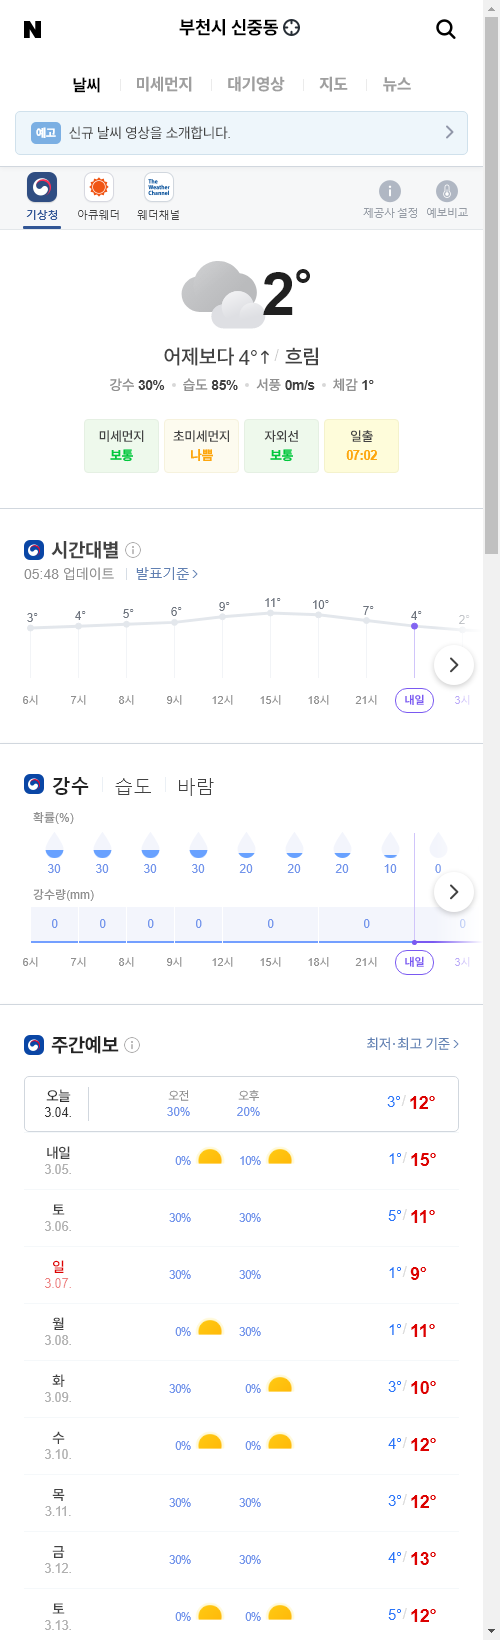
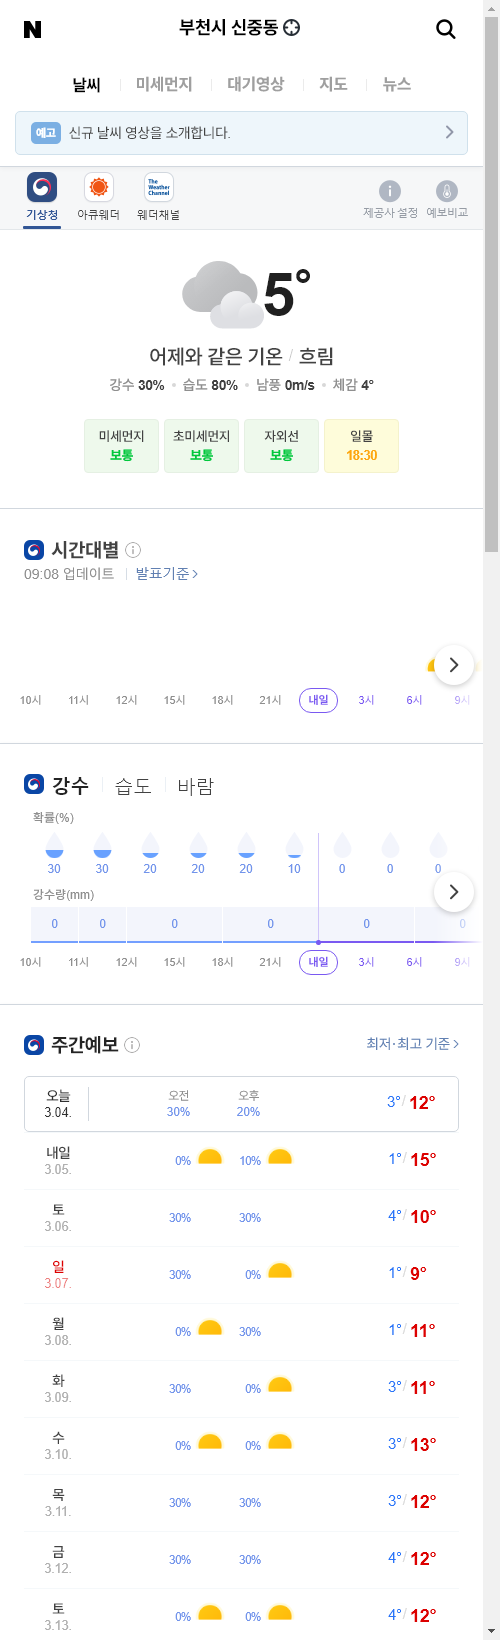
update result

diff --git a/README.md b/README.md
@@ -1,5 +1,5 @@
-##  2021-03-04 05:54:43   목요일 
-##### 날씨   -   어제보다 4° 높아요흐림  
+##  2021-03-04 09:16:40   목요일 
+##### 날씨   -   어제와 같은 기온흐림  
 <center><img src="../img/naver_weather_week.png"></center>
 ----
 ----
@@ -13,9 +13,9 @@
 ##### 세계
 <table border="1" bordercolor="blue" align = "center" >
 <tr align = "right" > <td>Item</td><td>Point</td><td>Diff</td><td>Rate</td><td>Buy</td><td>Sell</td><td>...</td>  </tr>
-<tr align = "right" > <td>DOW</td><td>31,371.75</td><td>-19.77</td><td><font size="3" color="blue" >-0.06%</font></td><td><font size="3" color="black">0</font></td><td><font size="3" color="black">0</font></td><td>0</td>  </tr>
-<tr align = "right" > <td>NASDAQ</td><td>13,037.03</td><td>-321.76</td><td><font size="3" color="blue" >-2.41%</font></td><td><font size="3" color="black">0</font></td><td><font size="3" color="black">0</font></td><td>0</td>  </tr>
-<tr align = "right" > <td>S&P</td><td>3,834.94</td><td>-35.35</td><td><font size="3" color="blue" >-0.91%</font></td><td><font size="3" color="black">0</font></td><td><font size="3" color="black">0</font></td><td>0</td>  </tr>
+<tr align = "right" > <td>DOW</td><td>31,270.09</td><td>-121.43</td><td><font size="3" color="blue" >-0.39%</font></td><td><font size="3" color="black">0</font></td><td><font size="3" color="black">0</font></td><td>0</td>  </tr>
+<tr align = "right" > <td>NASDAQ</td><td>12,997.75</td><td>-361.04</td><td><font size="3" color="blue" >-2.7%</font></td><td><font size="3" color="black">0</font></td><td><font size="3" color="black">0</font></td><td>0</td>  </tr>
+<tr align = "right" > <td>S&P</td><td>3,819.72</td><td>-50.57</td><td><font size="3" color="blue" >-1.31%</font></td><td><font size="3" color="black">0</font></td><td><font size="3" color="black">0</font></td><td>0</td>  </tr>
 <tr align = "right" > <td>SHANHAI</td><td>3,576.91</td><td>68.31</td><td><font size="3" color="red" >1.95%</font></td><td><font size="3" color="black">0</font></td><td><font size="3" color="black">0</font></td><td>0</td>  </tr>
 <tr align = "right" > <td>INDIA</td><td>51,444.65</td><td>114.0</td><td><font size="3" color="red" >2.28%</font></td><td><font size="3" color="black">0</font></td><td><font size="3" color="black">0</font></td><td>0</td>  </tr>
 </table>
@@ -23,34 +23,34 @@
 ##### 시장
 <table border="1" bordercolor="blue" align = "center" >
 <tr align = "right" > <td>Item</td><td>Price</td><td>Diff</td><td>Rate</td><td>Buy</td><td>Sell</td><td>...</td>  </tr>
-<tr align = "right" > <td>USD</td><td>1,122.0</td><td>-2.0</td><td><font size="3" color="blue">-0.18%</font></td><td><font size="3" color="black">1,110</font></td><td><font size="3" color="black">0</font></td><td>0</td>  </tr>
-<tr align = "right" > <td>WTI</td><td>59.75</td><td>-0.89</td><td><font size="3" color="blue">-1.46%</font></td><td><font size="3" color="black">29.0</font></td><td><font size="3" color="black">0</font></td><td>0</td>  </tr>
-<tr align = "right" > <td>GOLD</td><td>1,733.0</td><td>10.6</td><td><font size="3" color="red">0.61%</font></td><td><font size="3" color="black">0</font></td><td><font size="3" color="black">0</font></td><td>0</td>  </tr>
+<tr align = "right" > <td>USD</td><td>1,127.0</td><td>4.5</td><td><font size="3" color="red">0.4%</font></td><td><font size="3" color="black">1,110</font></td><td><font size="3" color="black">0</font></td><td>0</td>  </tr>
+<tr align = "right" > <td>WTI</td><td>61.28</td><td>1.53</td><td><font size="3" color="red">2.56%</font></td><td><font size="3" color="black">29.0</font></td><td><font size="3" color="black">0</font></td><td>0</td>  </tr>
+<tr align = "right" > <td>GOLD</td><td>1,715.0</td><td>-17.8</td><td><font size="3" color="blue">-1.02%</font></td><td><font size="3" color="black">0</font></td><td><font size="3" color="black">0</font></td><td>0</td>  </tr>
 </table>
 ----
 ##### 주가
 <table border="1" bordercolor="blue" align = "center" >
 <tr align = "right" > <td>Item</td><td>Price</td><td>Diff</td><td>Rate</td><td>Purchased</td><td>Sell</td><td>Buy</td>  </tr>
-<tr align = "right" > <td>한국 전력</td><td>23,600</td><td>700</td><td><font size="3" color="red">3.06%</font></td><td>25,720</td><td><font size="3" color="black">27,700</font></td><td><font size="3" color="black">20,700</font></td>  </tr>
-<tr align = "right" > <td>삼성엔지니어.</td><td>12,950</td><td>150</td><td><font size="3" color="red">1.17%</font></td><td>18,935</td><td><font size="3" color="black">20,000</font></td><td><font size="3" color="black">8,000</font></td>  </tr>
-<tr align = "right" > <td>CJ CGV</td><td>27,800</td><td>500</td><td><font size="3" color="red">1.83%</font></td><td>34,895</td><td><font size="3" color="black">36,000</font></td><td><font size="3" color="black">0</font></td>  </tr>
-<tr align = "right" > <td>아모레퍼시픽</td><td>240,000</td><td>4,500</td><td><font size="3" color="red">1.91%</font></td><td>235,350</td><td><font size="3" color="black">240,000</font></td><td><font size="3" color="black">130,000</font></td>  </tr>
-<tr align = "right" > <td>한화</td><td>30,150</td><td>600</td><td><font size="3" color="red">2.03%</font></td><td>25,550</td><td><font size="3" color="black">26,250</font></td><td><font size="3" color="black">26,250</font></td>  </tr>
-<tr align = "right" > <td>NAVER</td><td>399,500</td><td>22,000</td><td><font size="3" color="red">5.83%</font></td><td>147,200</td><td><font size="3" color="black">386,000</font></td><td><font size="3" color="black">286,000</font></td>  </tr>
-<tr align = "right" > <td>LG 화학우</td><td>407,500</td><td>-2,000</td><td><font size="3" color="blue">-0.49%</font></td><td>202,490</td><td><font size="3" color="black">384,000</font></td><td><font size="3" color="black">384,000</font></td>  </tr>
-<tr align = "right" > <td>스튜디오드래.</td><td>96,700</td><td>-400</td><td><font size="3" color="blue">-0.41%</font></td><td>81,243</td><td><font size="3" color="black">85,200</font></td><td><font size="3" color="black">85,200</font></td>  </tr>
-<tr align = "right" > <td>QV미국IT</td><td>25,795</td><td>-155</td><td><font size="3" color="blue">-0.6%</font></td><td>0</td><td><font size="3" color="black">30,000</font></td><td><font size="3" color="black">20,000</font></td>  </tr>
-<tr align = "right" > <td>삼성 전자우</td><td>73,900</td><td>800</td><td><font size="3" color="red">1.09%</font></td><td>48,250</td><td><font size="3" color="black">56,000</font></td><td><font size="3" color="black">45,000</font></td>  </tr>
-<tr align = "right" > <td>LS</td><td>69,900</td><td>300</td><td><font size="3" color="red">0.43%</font></td><td>71,900</td><td><font size="3" color="black">82,000</font></td><td><font size="3" color="black">60,000</font></td>  </tr>
-<tr align = "right" > <td>한화에어로스.</td><td>38,350</td><td>750</td><td><font size="3" color="red">1.99%</font></td><td>25,700</td><td><font size="3" color="black">30,000</font></td><td><font size="3" color="black">24,000</font></td>  </tr>
-<tr align = "right" > <td>카카오</td><td>493,500</td><td>2,000</td><td><font size="3" color="red">0.41%</font></td><td>405,500</td><td><font size="3" color="black">440,000</font></td><td><font size="3" color="black">400,000</font></td>  </tr>
-<tr align = "right" > <td>호텔 신라</td><td>84,300</td><td>1,900</td><td><font size="3" color="red">2.31%</font></td><td>72,800</td><td><font size="3" color="black">100,000</font></td><td><font size="3" color="black">70,000</font></td>  </tr>
-<tr align = "right" > <td>S-Oil</td><td>85,500</td><td>900</td><td><font size="3" color="red">1.06%</font></td><td>62,842</td><td><font size="3" color="black">100,000</font></td><td><font size="3" color="black">50,000</font></td>  </tr>
-<tr align = "right" > <td>LG전자</td><td>150,500</td><td>1,500</td><td><font size="3" color="red">1.01%</font></td><td>82,022</td><td><font size="3" color="black">100,000</font></td><td><font size="3" color="black">60,000</font></td>  </tr>
-<tr align = "right" > <td>KT&G</td><td>79,800</td><td>1,700</td><td><font size="3" color="red">2.18%</font></td><td>80,400</td><td><font size="3" color="black">100,000</font></td><td><font size="3" color="black">70,000</font></td>  </tr>
-<tr align = "right" > <td>지역난방공사</td><td>37,450</td><td>-100</td><td><font size="3" color="blue">-0.27%</font></td><td>43,590</td><td><font size="3" color="black">60,000</font></td><td><font size="3" color="black">30,000</font></td>  </tr>
-<tr align = "right" > <td>KOEDX은행</td><td>6,555</td><td>105</td><td><font size="3" color="red">1.63%</font></td><td>5,178</td><td><font size="3" color="black">6,225</font></td><td><font size="3" color="black">6,225</font></td>  </tr>
-<tr align = "right" > <td>글로벌럭셔리</td><td>16,225</td><td>15</td><td><font size="3" color="red">0.09%</font></td><td>15,260</td><td><font size="3" color="black">20,000</font></td><td><font size="3" color="black">10,000</font></td>  </tr>
-<tr align = "right" > <td>한국금융지주</td><td>89,500</td><td>2,200</td><td><font size="3" color="red">2.52%</font></td><td>0</td><td><font size="3" color="black">82,000</font></td><td><font size="3" color="black">60,000</font></td>  </tr>
+<tr align = "right" > <td>한국 전력</td><td>23,250</td><td>-350</td><td><font size="3" color="blue">-1.48%</font></td><td>25,720</td><td><font size="3" color="black">27,700</font></td><td><font size="3" color="black">20,700</font></td>  </tr>
+<tr align = "right" > <td>삼성엔지니어.</td><td>12,800</td><td>-150</td><td><font size="3" color="blue">-1.16%</font></td><td>18,935</td><td><font size="3" color="black">20,000</font></td><td><font size="3" color="black">8,000</font></td>  </tr>
+<tr align = "right" > <td>CJ CGV</td><td>27,500</td><td>-300</td><td><font size="3" color="blue">-1.08%</font></td><td>34,895</td><td><font size="3" color="black">36,000</font></td><td><font size="3" color="black">0</font></td>  </tr>
+<tr align = "right" > <td>아모레퍼시픽</td><td>240,000</td><td>0</td><td><font size="3" color="black">0.0%</font></td><td>235,350</td><td><font size="3" color="black">240,000</font></td><td><font size="3" color="black">130,000</font></td>  </tr>
+<tr align = "right" > <td>한화</td><td>29,650</td><td>-500</td><td><font size="3" color="blue">-1.66%</font></td><td>25,550</td><td><font size="3" color="black">26,250</font></td><td><font size="3" color="black">26,250</font></td>  </tr>
+<tr align = "right" > <td>NAVER</td><td>393,000</td><td>-6,500</td><td><font size="3" color="blue">-1.63%</font></td><td>147,200</td><td><font size="3" color="black">386,000</font></td><td><font size="3" color="black">286,000</font></td>  </tr>
+<tr align = "right" > <td>LG 화학우</td><td>404,000</td><td>-3,500</td><td><font size="3" color="blue">-0.86%</font></td><td>202,490</td><td><font size="3" color="black">384,000</font></td><td><font size="3" color="black">384,000</font></td>  </tr>
+<tr align = "right" > <td>스튜디오드래.</td><td>95,400</td><td>-1,300</td><td><font size="3" color="blue">-1.34%</font></td><td>81,243</td><td><font size="3" color="black">85,200</font></td><td><font size="3" color="black">85,200</font></td>  </tr>
+<tr align = "right" > <td>QV미국IT</td><td>25,795</td><td>0</td><td><font size="3" color="black">0.0%</font></td><td>0</td><td><font size="3" color="black">30,000</font></td><td><font size="3" color="black">20,000</font></td>  </tr>
+<tr align = "right" > <td>삼성 전자우</td><td>73,400</td><td>-500</td><td><font size="3" color="blue">-0.68%</font></td><td>48,250</td><td><font size="3" color="black">56,000</font></td><td><font size="3" color="black">45,000</font></td>  </tr>
+<tr align = "right" > <td>LS</td><td>68,700</td><td>-1,200</td><td><font size="3" color="blue">-1.72%</font></td><td>71,900</td><td><font size="3" color="black">82,000</font></td><td><font size="3" color="black">60,000</font></td>  </tr>
+<tr align = "right" > <td>한화에어로스.</td><td>37,700</td><td>-650</td><td><font size="3" color="blue">-1.69%</font></td><td>25,700</td><td><font size="3" color="black">30,000</font></td><td><font size="3" color="black">24,000</font></td>  </tr>
+<tr align = "right" > <td>카카오</td><td>485,500</td><td>-8,000</td><td><font size="3" color="blue">-1.62%</font></td><td>405,500</td><td><font size="3" color="black">440,000</font></td><td><font size="3" color="black">400,000</font></td>  </tr>
+<tr align = "right" > <td>호텔 신라</td><td>84,500</td><td>200</td><td><font size="3" color="red">0.24%</font></td><td>72,800</td><td><font size="3" color="black">100,000</font></td><td><font size="3" color="black">70,000</font></td>  </tr>
+<tr align = "right" > <td>S-Oil</td><td>85,000</td><td>-500</td><td><font size="3" color="blue">-0.58%</font></td><td>62,842</td><td><font size="3" color="black">100,000</font></td><td><font size="3" color="black">50,000</font></td>  </tr>
+<tr align = "right" > <td>LG전자</td><td>146,500</td><td>-4,000</td><td><font size="3" color="blue">-2.66%</font></td><td>82,022</td><td><font size="3" color="black">100,000</font></td><td><font size="3" color="black">60,000</font></td>  </tr>
+<tr align = "right" > <td>KT&G</td><td>79,500</td><td>-300</td><td><font size="3" color="blue">-0.38%</font></td><td>80,400</td><td><font size="3" color="black">100,000</font></td><td><font size="3" color="black">70,000</font></td>  </tr>
+<tr align = "right" > <td>지역난방공사</td><td>37,400</td><td>-50</td><td><font size="3" color="blue">-0.13%</font></td><td>43,590</td><td><font size="3" color="black">60,000</font></td><td><font size="3" color="black">30,000</font></td>  </tr>
+<tr align = "right" > <td>KOEDX은행</td><td>6,560</td><td>5</td><td><font size="3" color="red">0.08%</font></td><td>5,178</td><td><font size="3" color="black">6,225</font></td><td><font size="3" color="black">6,225</font></td>  </tr>
+<tr align = "right" > <td>글로벌럭셔리</td><td>16,190</td><td>-35</td><td><font size="3" color="blue">-0.22%</font></td><td>15,260</td><td><font size="3" color="black">20,000</font></td><td><font size="3" color="black">10,000</font></td>  </tr>
+<tr align = "right" > <td>한국금융지주</td><td>88,700</td><td>-800</td><td><font size="3" color="blue">-0.89%</font></td><td>0</td><td><font size="3" color="black">82,000</font></td><td><font size="3" color="black">60,000</font></td>  </tr>
 </table>
 ----
